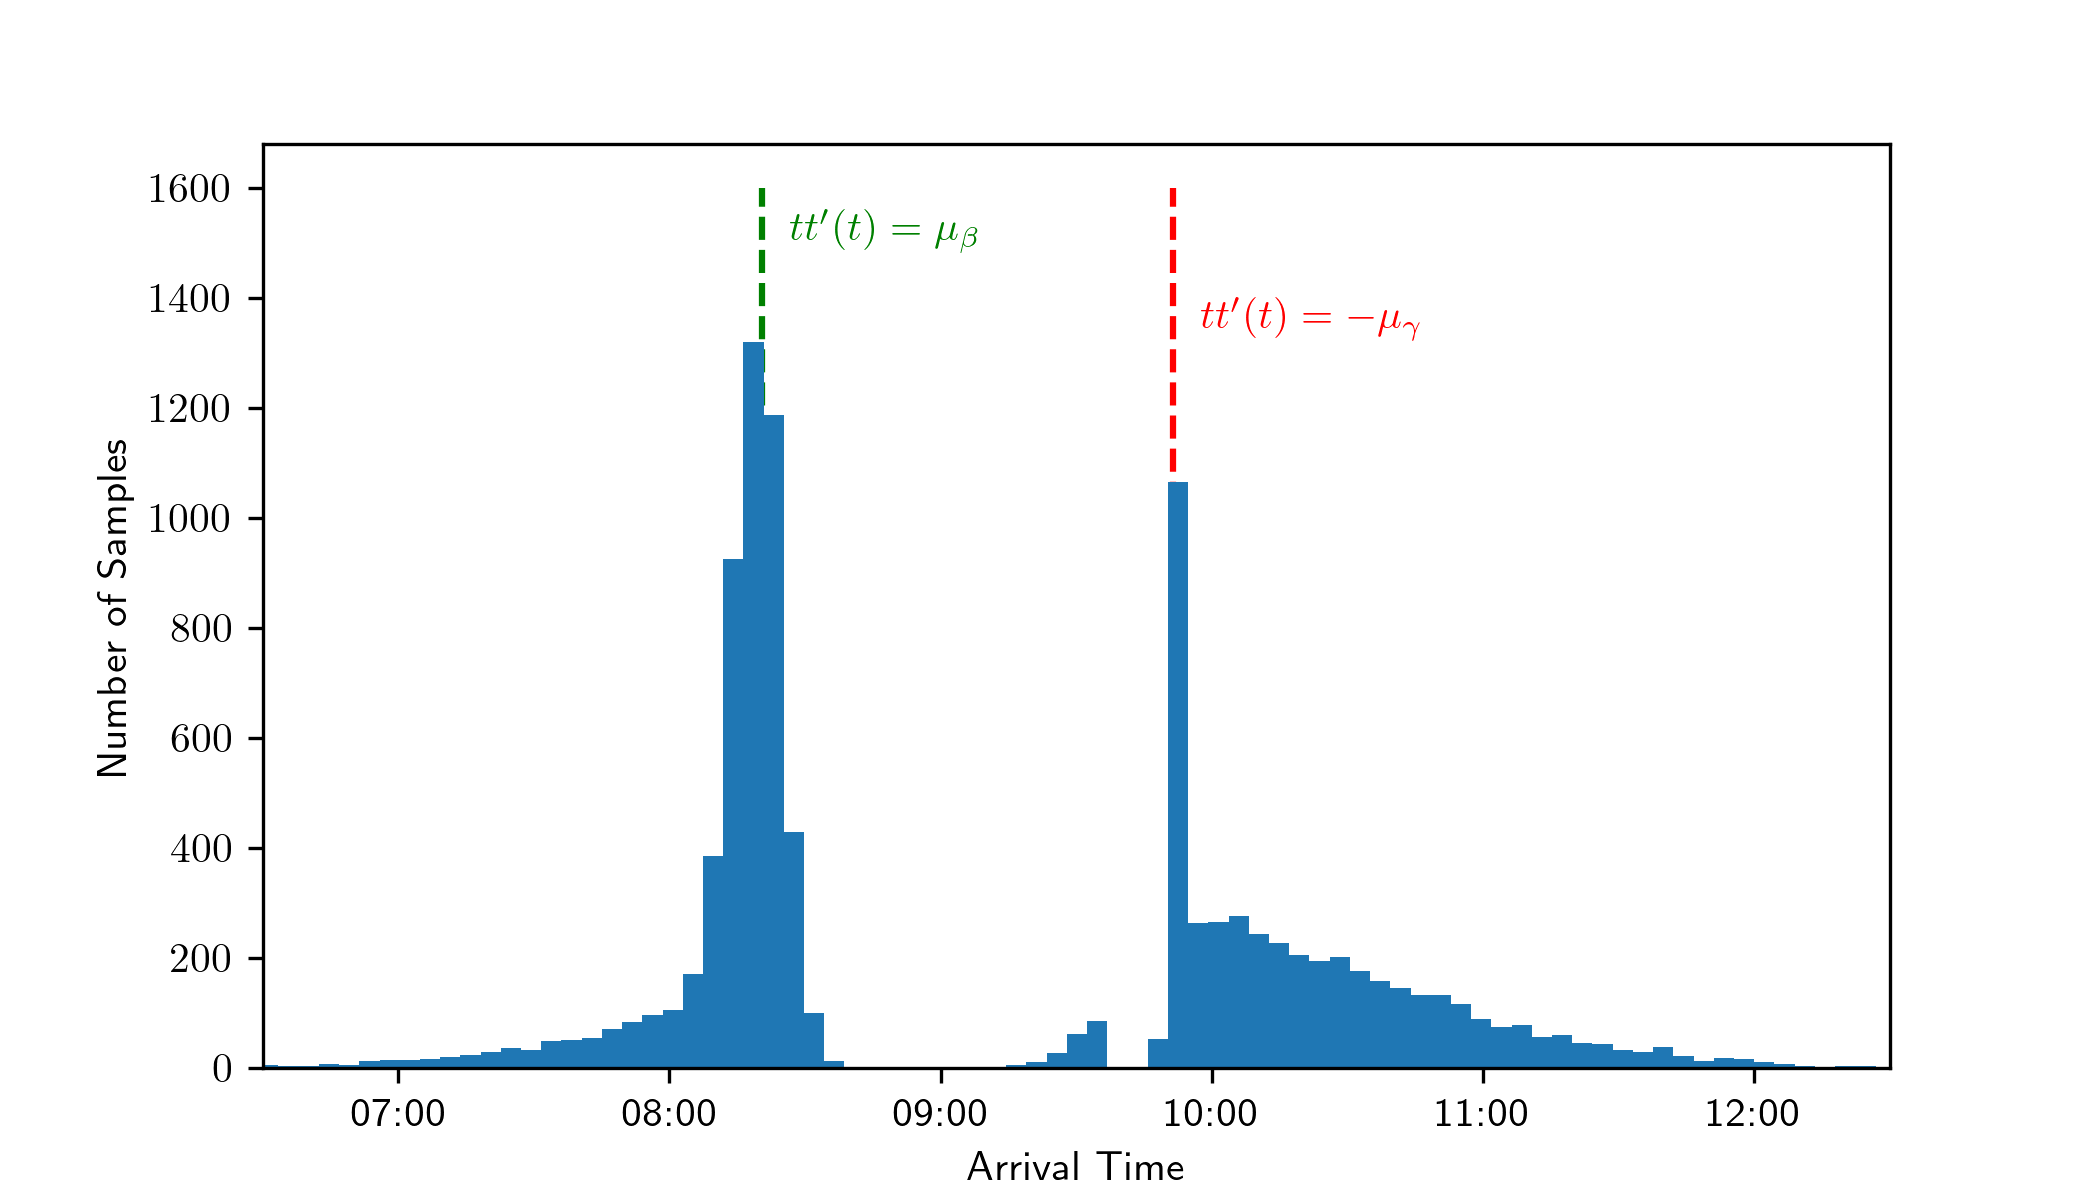
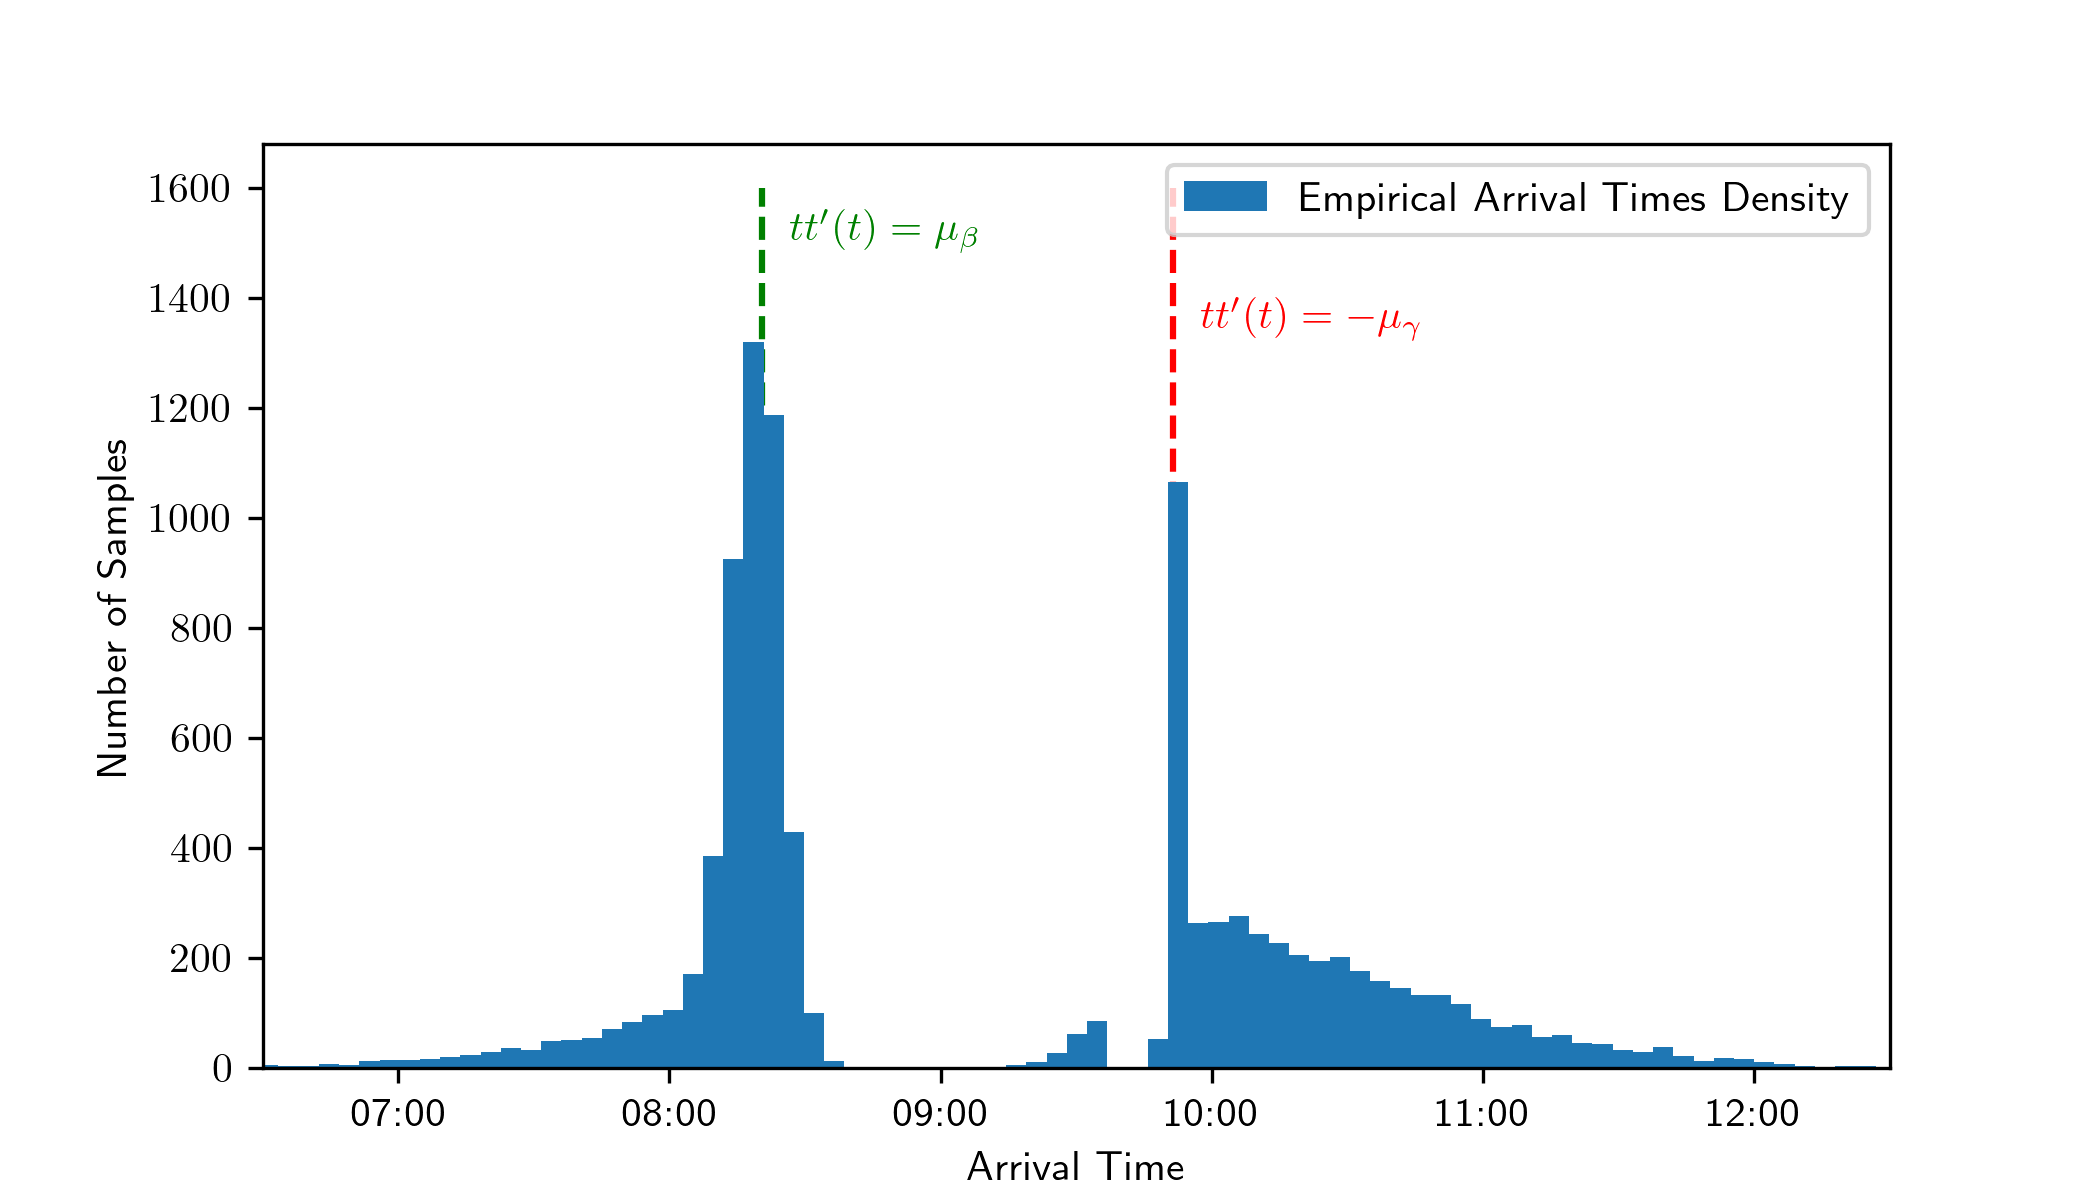
Added figure on hist with likelihood

Changed region(s): [[0.5571, 0.1233, 0.8976, 0.2158]]

diff --git a/Sections/Numerical.tex b/Sections/Numerical.tex
@@ -89,6 +89,7 @@ The parameter will thus be defined as
 \end{equation*}
 
 \subsection{Synthetic Dataset}
+\label{sec:synthetic-dataset}
 
 For creating the synthetic dataset,
 the cost function must be explicitly minimized,
@@ -111,7 +112,7 @@ we are able to generate the dataset of arrival times:
 
 The minimization is done by explicitly finding the (at most) two internal minima,
 which correspond to early and late arrivals,
-without relying on the theory built in section NUMBER\todo{put number}
+without resorting to the theory built in section NUMBER\todo{put number}
 (since relying on the model itself is to be avoided when a model is being validated).
 
 The values found in this way are then compared with the only discontinuity of the derivative,
@@ -150,7 +151,7 @@ and depicts how the optimization process is performed.
   \includegraphics[width=.8\textwidth]{hist_means}
   \caption{
     Histogram displaying the distribution of \(N=10,000\) sampled arrival times,
-    with parameters shown in equation~\eqref{param_hist}.
+    with parameters shown in equation~\eqref{param-hist}.
     The dashed lines show the points in which the derivative of the travel time function is equal to the scheduling delay preferences mean,
     that correspond, as expected,
     to the zones in which the density is higher.
@@ -163,8 +164,8 @@ a dataset of an arbitrary number of samples is created.
 Figure~\ref{fig:hist-means} shows the result of the process,
 with parameters
 \begin{equation}
-  \label{param_hist}
-  \theta =
+  \label{param-hist}
+  \theta_0 =
   \begin{pmatrix}
     \mu_\beta \\
     \mu_\gamma \\
@@ -175,7 +176,7 @@ with parameters
   =
   \begin{pmatrix}
     0.6 \\
-    0.8 \\
+    2.4 \\
     9.5 \\
     0.1 \\
     1
@@ -235,12 +236,30 @@ just-in-time compilation and automatic differentiation of the result.
 
 The resulting code is available at \url{github.com/something}.
 
+Once the estimation of the density can be performed,
+the parameters can be fixed to plot the density for different values of arrival time.
 
-Figure
+\begin{figure}
+  \centering
+  \includegraphics[width=.8\textwidth]{hist_lik}
+  \caption{Histogram displaying the distribution of \(N=10,000\) sampled arrival times,
+    plotted over the result of the likelihood function in expression~\eqref{eq:lik-final}.
+  The empirical distribution closely follows the predicted one.}
+  \label{fig:hist-lik}
+\end{figure}
 
-Figure NUMBER shows distribution,
-figure NUMBER overlap likelihood,
-please note that is good.\todo{complete these sentences}
+Figure \ref{fig:hist-lik} shows the result of this process,
+plotted over the empirical density obtained by sampling as in section~\ref{sec:synthetic-dataset}.
+The parameters are the same defined before, in equation~\eqref{param-hist}.
+
+Note that the theoretical density closely follows the empirical one,
+showing the precision of the theoretical study and the accuracy of the numerical methods.
+The high-performance frameworks utilized allow moreover the estimation to be performed in tolerable times,
+avoiding the need of particularly powerful machines.
+
+\subsection{Optimization of the likelihood}
+
+
 
 %%% Local Variables:
 %%% mode: LaTeX

diff --git a/python/plot_paper.py b/python/plot_paper.py
@@ -13,6 +13,7 @@ from scripts.travel_times import asymm_gaussian, asymm_gaussian_plateau
 from scripts.generate_data import cost, generate_arrival
 from scripts.utils import TravelTime
 from scripts.find_points import find_bs, find_gs
+from scripts.retrieve_data import total_liks
 #%%
 
 early_color = "green"
@@ -254,11 +255,9 @@ ts = generate_arrival(10000, tt, mu_beta, mu_gamma, mu_t=9.5, sigma=0.1, sigma_t
 b_i = find_bs(mu_beta, tt)[0]
 g_e = find_gs(mu_gamma, tt)[1]
 
-#%%
-
 fig, ax = plt.subplots(figsize=(7, 4))
 
-ax.hist(ts, 100)
+ax.hist(ts, 100, label="Empirical Arrival Times Density")
 h = 1600
 ax.vlines(
     [b_i, g_e],
@@ -291,5 +290,29 @@ ax.set_xlim(6.5, 12.5)
 ax.xaxis.set_major_formatter(formatter)
 ax.set_xlabel("Arrival Time")
 ax.set_ylabel("Number of  Samples")
+
+ax.legend()
+
 fig.savefig("../img/hist_means.png", dpi=quality)
 plt.close()
+
+#%%
+
+x = np.linspace(6.5, 12.5, 400)
+y = total_liks(tt, x)(mu_beta, mu_gamma, 9.5, .1, 1.)
+
+#%%
+fig, ax = plt.subplots(figsize=(7, 4))
+
+ax.hist(ts, 100, label="Empirical Arrival Times Density")
+ax.fill_between(x, y*700, color=cost_color, alpha=.35, label="Likeilhood Function")
+
+ax.set_xlim(6.5, 12.5)
+ax.xaxis.set_major_formatter(formatter)
+ax.set_xlabel("Arrival Time")
+ax.set_ylabel("Number of  Samples")
+
+ax.legend()
+
+fig.savefig("../img/hist_lik.png", dpi=quality)
+fig.show()
